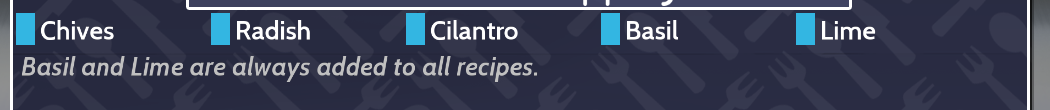
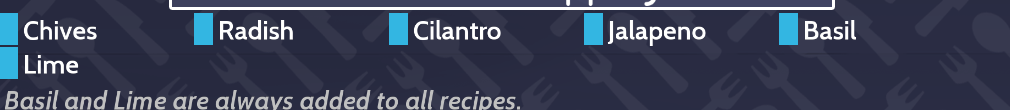
-m

diff --git a/main.py b/main.py
@@ -96,7 +96,7 @@ def cook(ocrReader, recipeBook, holdingStationRecipeBook, customOrderRecipes, oc
     return recipeName
 
 def getRecipeNameFromScreenshot(ocrReader, ocrCache=None):
-    recipeRegionX, recipeRegionY, width, height = 600, 827, 700, 55
+    recipeRegionX, recipeRegionY, width, height = 630, 835, 650, 50
     screenshotName = "test.png"
     pyautogui.screenshot(screenshotName, region=(recipeRegionX, recipeRegionY, width, height))
 
@@ -125,7 +125,7 @@ def readRecipeDescription(ocrReader, ocrCache=None):
     if ocrCache is None:
         ocrCache = loadOCRCache()
 
-    recipeRegionX, recipeRegionY, width, height = 440, 870, 1050, 110
+    recipeRegionX, recipeRegionY, width, height = 457, 870, 1010, 110
     screenshotName = "recipeDescription.png"
     pyautogui.screenshot(screenshotName, region=(recipeRegionX, recipeRegionY, width, height))
 

diff --git a/recipes.py b/recipes.py
@@ -52,6 +52,7 @@ def initCustomoOrderRecipes():
         "Chives": 'c',
         "Radish": 'r',
         "Onion Shoot": 'n',
+        "Onion": 'n',
         "Cilantro": 'l',
         "Jalapeno": 'j',
         "Basil": 'b',
@@ -255,7 +256,9 @@ def initRecipeBook():
         "02 Delicious Boil": ['r', 'c', 'w', 'o', 'p', 'u', 'h'],
 
         # Chicken Breast
+        "O1 Winners Dinner": ['k', 't', 't', 't', 't', 't', 't', 's'],
         "O1 Chicken Breast": ['k', 't', 't', 't', 't', 't', 't', 's'],
+        "01 Chicken Breast": ['k', 't', 't', 't', 't', 't', 't', 's'],
         "02 Breaded Chicken Breast": ['k', 't', 't', 't', 't', 't', 't', 'b'],
 
         # Lasagna

diff --git a/util.py b/util.py
@@ -142,5 +142,5 @@ def saveImageOCRCacheToFile(ocrCache):
     existing_data.update(ocrCache)
 
     with open(filePath, 'w') as file:
-        json.dump(existing_data, file)
+        json.dump(existing_data, file, indent=4)
 
